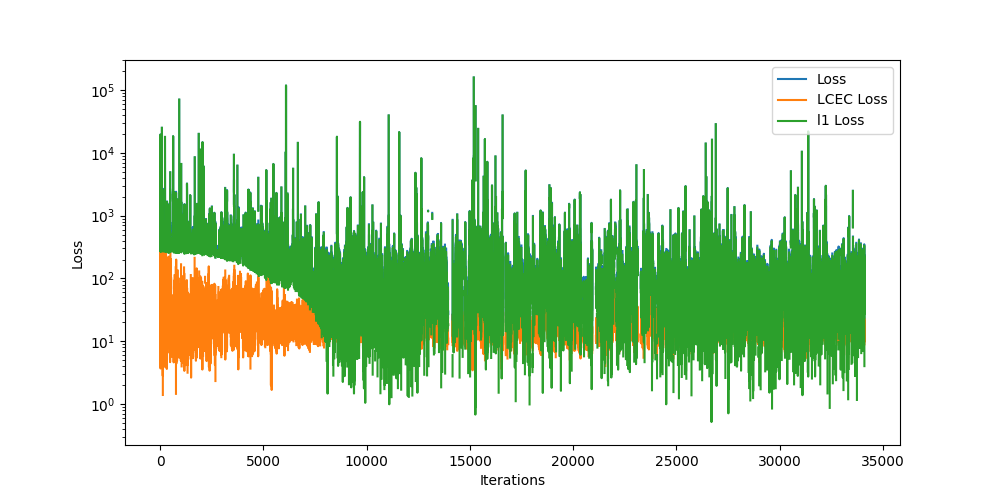
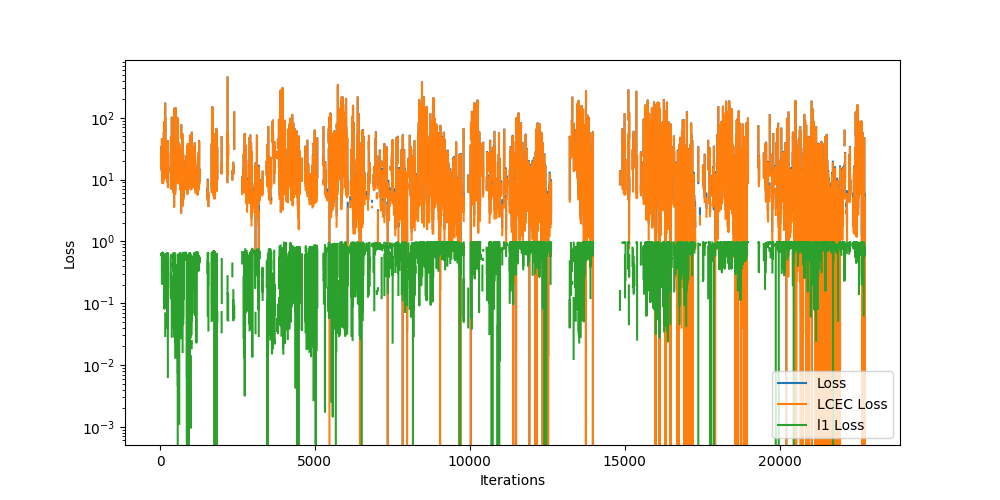
updates

diff --git a/model_7_lite.py b/model_7_lite.py
@@ -38,7 +38,7 @@ class TransformerModel(nn.Module):
 
         src = self.embedding(src)
         output = self.transformer_encoder(src)
-        output = torch.abs(self.decoder(output[-1])) # just pressure
+        output = self.decoder(output[-1]) # just pressure
         
         src_grk = self.embedding_greek(grk)
         output_grk = self.transformer_encoder_greek(src_grk)
@@ -49,19 +49,19 @@ class TransformerModel(nn.Module):
         return output,output_grk
 
 # Parameters
-n_features = 32
-n_hiddens = 32
-n_layers = 8
-n_heads = 16
+n_features = 48
+n_hiddens = 12
+n_layers = 4
+n_heads =  12
 n_epochs = 300
-batch_size = 32
+batch_size = 48
 learning_rate = 0.001
 
 # Create the model
 model = TransformerModel(n_features, n_hiddens, n_layers, n_heads)
 
 # Loss function and optimizer
-criterion =  nn.L1Loss()
+criterion =  nn.CosineSimilarity(dim=0)
 optimizer = optim.Adam(model.parameters(), lr=learning_rate)
 
 # Training loop
@@ -96,25 +96,25 @@ for epoch in range(n_epochs):
         alpha,beta,gamma,xi,mu,theta = outputs_grk
         t_pred = t
         p_pred = p
-        t_pred_1 = alpha * (mu - beta * i_1 - gamma * v_1 * rh_1 - xi *(theta))**-1 #before this was rh2-rh1 instead of theta, you could use rh1 as well to try, also maybe you can predict all the other variables this way off of each other!
+        t_pred_1 = t * alpha * (mu - beta * i_1 - gamma * v_1 * rh_1 - xi *(theta))**-1 #before this was rh2-rh1 instead of theta, you could use rh1 as well to try, also maybe you can predict all the other variables this way off of each other!
         r_pred = (v_1*gamma)**-1 * (mu - alpha * temp_1 **-1 - beta * i_1 - xi*theta)
         v_pred = (rh_1*gamma)**-1 * (mu - alpha * temp_1 **-1 - beta * i_1 - xi*theta)
         i_pred = beta ** -1 * (mu + alpha/temp_1 - gamma * v_1 * rh_1 - xi*theta)
-        
+        t_pred = t * alpha * (mu - beta * i_pred - gamma * v_pred * r_pred - xi *(theta))**-1
         x_prime = torch.cat((t_pred.unsqueeze(0),p_pred.unsqueeze(0),r_pred.unsqueeze(0),i_pred.unsqueeze(0),v_pred.unsqueeze(0)))
         #all_pred  = torch.cat((batch[:-1,],x_prime.unsqueeze(0)),0) # maybe comment out
         # and the loss on the temperature: 
         d_entropy_pt = torch.log(temp_2/temp_1)  - 8.314 * torch.log(p_2/p_1) # the actual delta entropy
         d_entropy_lce = (alpha/temp_2 + beta * i_2 + gamma * v_2 * rh_2 + xi * (rh_2)) - (alpha/temp_1 + beta * i_1 + gamma * v_1 * rh_1 + xi * (rh_1)) 
         #loss for the learned constants to be accurate (learned constant entropy constants loss)
-        loss_lcec = torch.log(torch.max(t_pred/t_pred_1,t_pred_1/t_pred))+(torch.abs(d_entropy_lce-d_entropy_pt))+(torch.abs(mu-d_entropy_pt))+(torch.abs(theta - (rh_2 - rh_1))) #before there was no constant theta
+        loss_lcec = torch.abs(rh_2-r_pred)+torch.abs(p_2-p_pred)+torch.abs(t_pred_1-t_pred)+(torch.abs(d_entropy_lce-d_entropy_pt))+(torch.abs(mu-d_entropy_pt))+(torch.abs(theta - (rh_2 - rh_1))) #before there was no constant theta
         #now we can compute the temperature and add that to the final loss
         # Backward pass and optimization
         optimizer.zero_grad()
 
-        loss =  criterion(x_prime,batch[-1,]) + (loss_lcec) # see if focusing more on temperature loss and less on sporadic losses like wind prediction helps, ie use the transformer to estimate the current state for nontemp variables
+        loss =   (loss_lcec) + criterion(x_prime,batch[-1,]) # see if focusing more on temperature loss and less on sporadic losses like wind prediction helps, ie use the transformer to estimate the current state for nontemp variables
         loss.backward()
-        torch.nn.utils.clip_grad_norm_(model.parameters(), max_norm=1.0) 
+        # torch.nn.utils.clip_grad_norm_(model.parameters(), max_norm=1.0) 
         optimizer.step()
         print("outputs ",x_prime)
         print("actual ", batch[-1, :])
